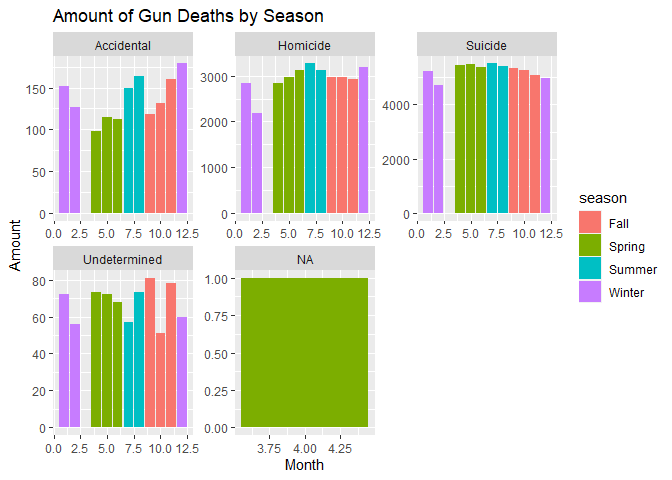
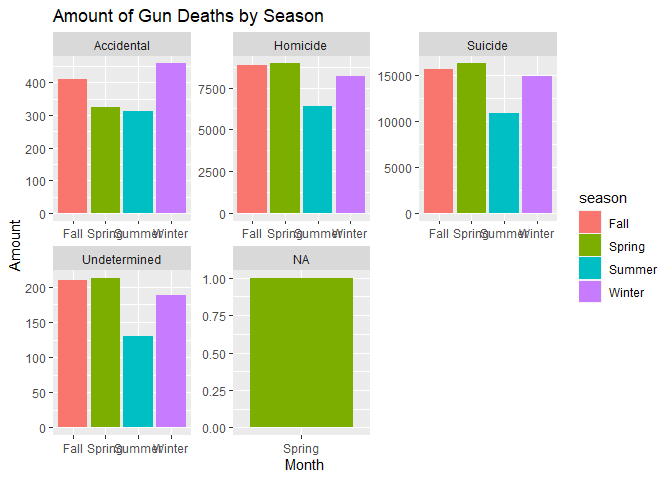
fixed up case 5

diff --git a/Week5/CaseStudy5/CaseStudy5things.md b/Week5/CaseStudy5/CaseStudy5things.md
@@ -175,7 +175,7 @@ nonulls <- seasons %>%
   filter(season != "")
 
 ggplot() +
-  geom_bar(data = nonulls, aes(x = month, fill = season)) +
+  geom_bar(data = nonulls, aes(x = season, fill = season)) +
   facet_wrap(~intent, scales = "free") +
   labs(x = "Month",
        y = "Amount",
@@ -183,14 +183,13 @@ ggplot() +
 ```
 
 ![](CaseStudy5things_files/figure-html/first plot-1.png)<!-- -->
-The graphs reveal that there is not a significant difference in suicide gun fatalities when broken down by season.
-So, we would need to tell the customer there is no real need to develop different approaches to strategies in gun
-violence based on season. 
+The graphs reveal that there is a significant difference in suicide gun fatalities when broken down by season.
+So, we see that suicide is actually higher in the fall and spring. Our client might want to make commercials during that time that are for suicide prevention.
 
 
 ```r
 ggplot() +
-  geom_bar(data = nonulls, aes(x = month, fill = sex)) +
+  geom_bar(data = nonulls, aes(x = season, fill = sex)) +
   facet_wrap(~intent, scales = "free") +
   labs(x = "Month",
        y = "Amount",
@@ -200,6 +199,6 @@ ggplot() +
 ![](CaseStudy5things_files/figure-html/unnamed-chunk-2-1.png)<!-- -->
 
 Taking a closer look to examine how men and women are specifically affected in different seasons by suicide gun
-violence, we can see there is still not a significant difference. However, we do still see a distinction. The
-client should focus specifically on male gun related suicide prevention commercials throughout the year. 
+violence, we can see similar results from what we saw in our previous graphs. However, we do still see a distinction. The
+client should focus specifically on male gun related suicide prevention commercials in fall and spring. 
 
